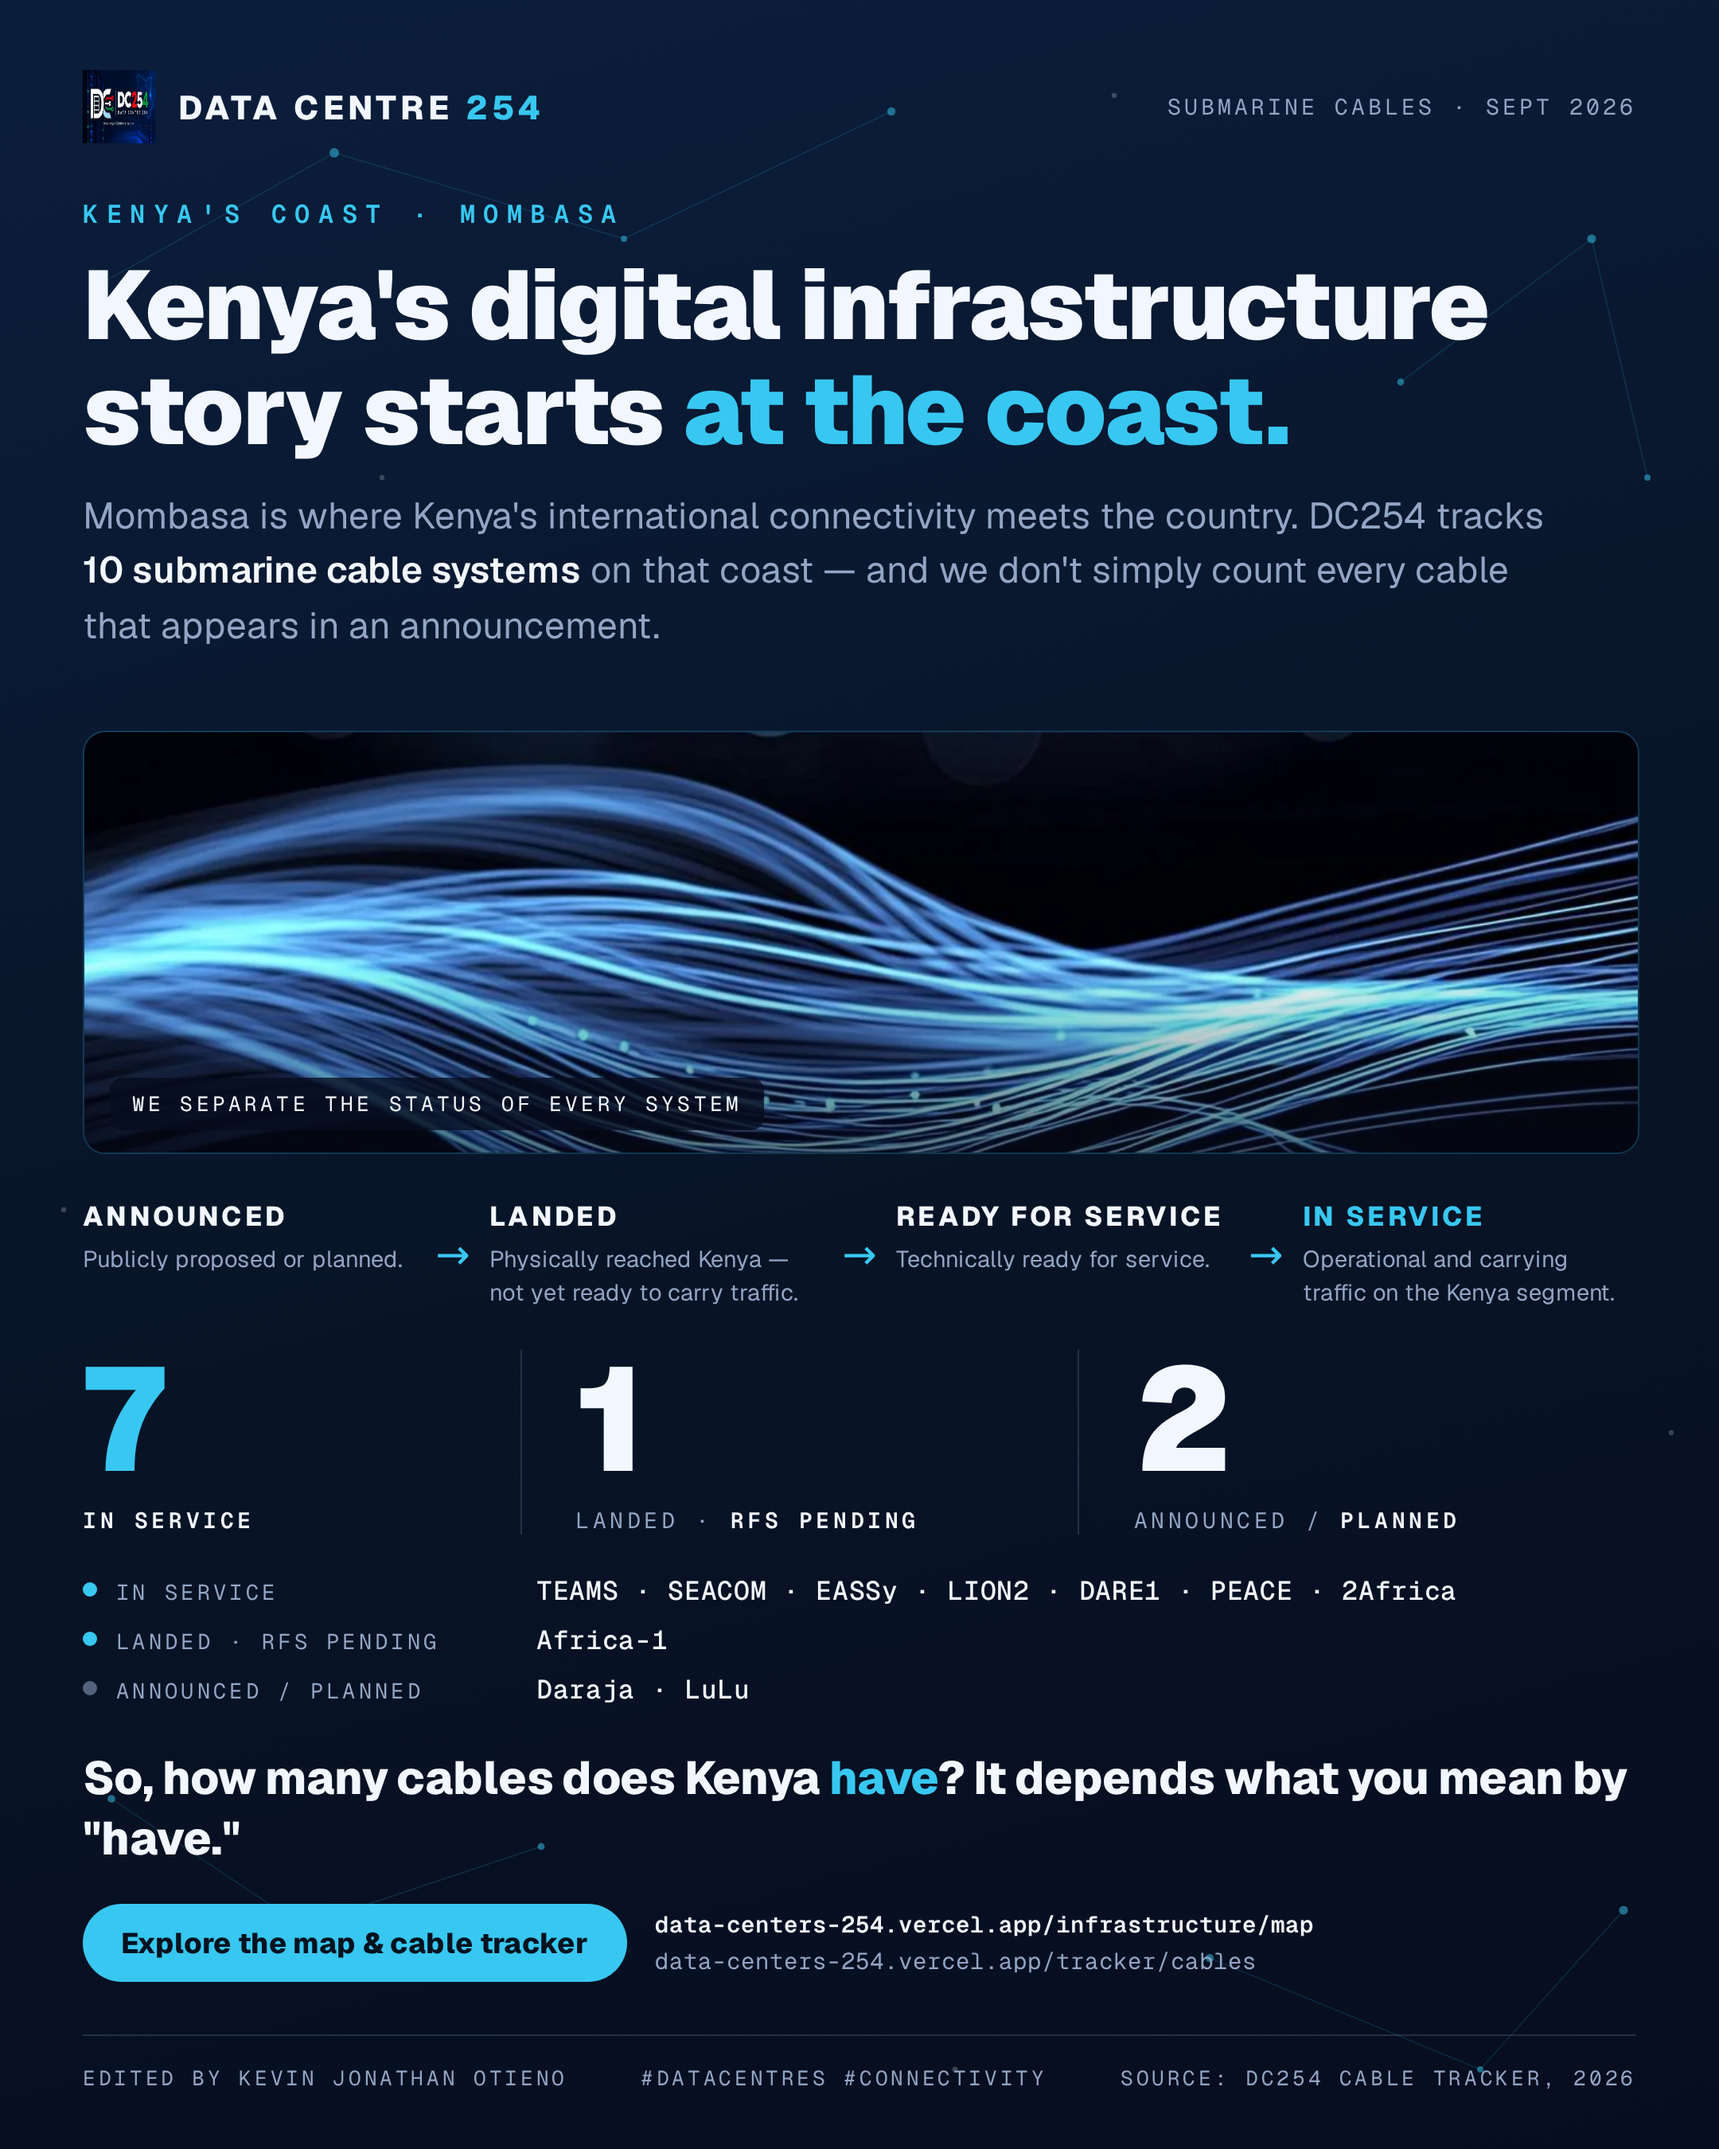
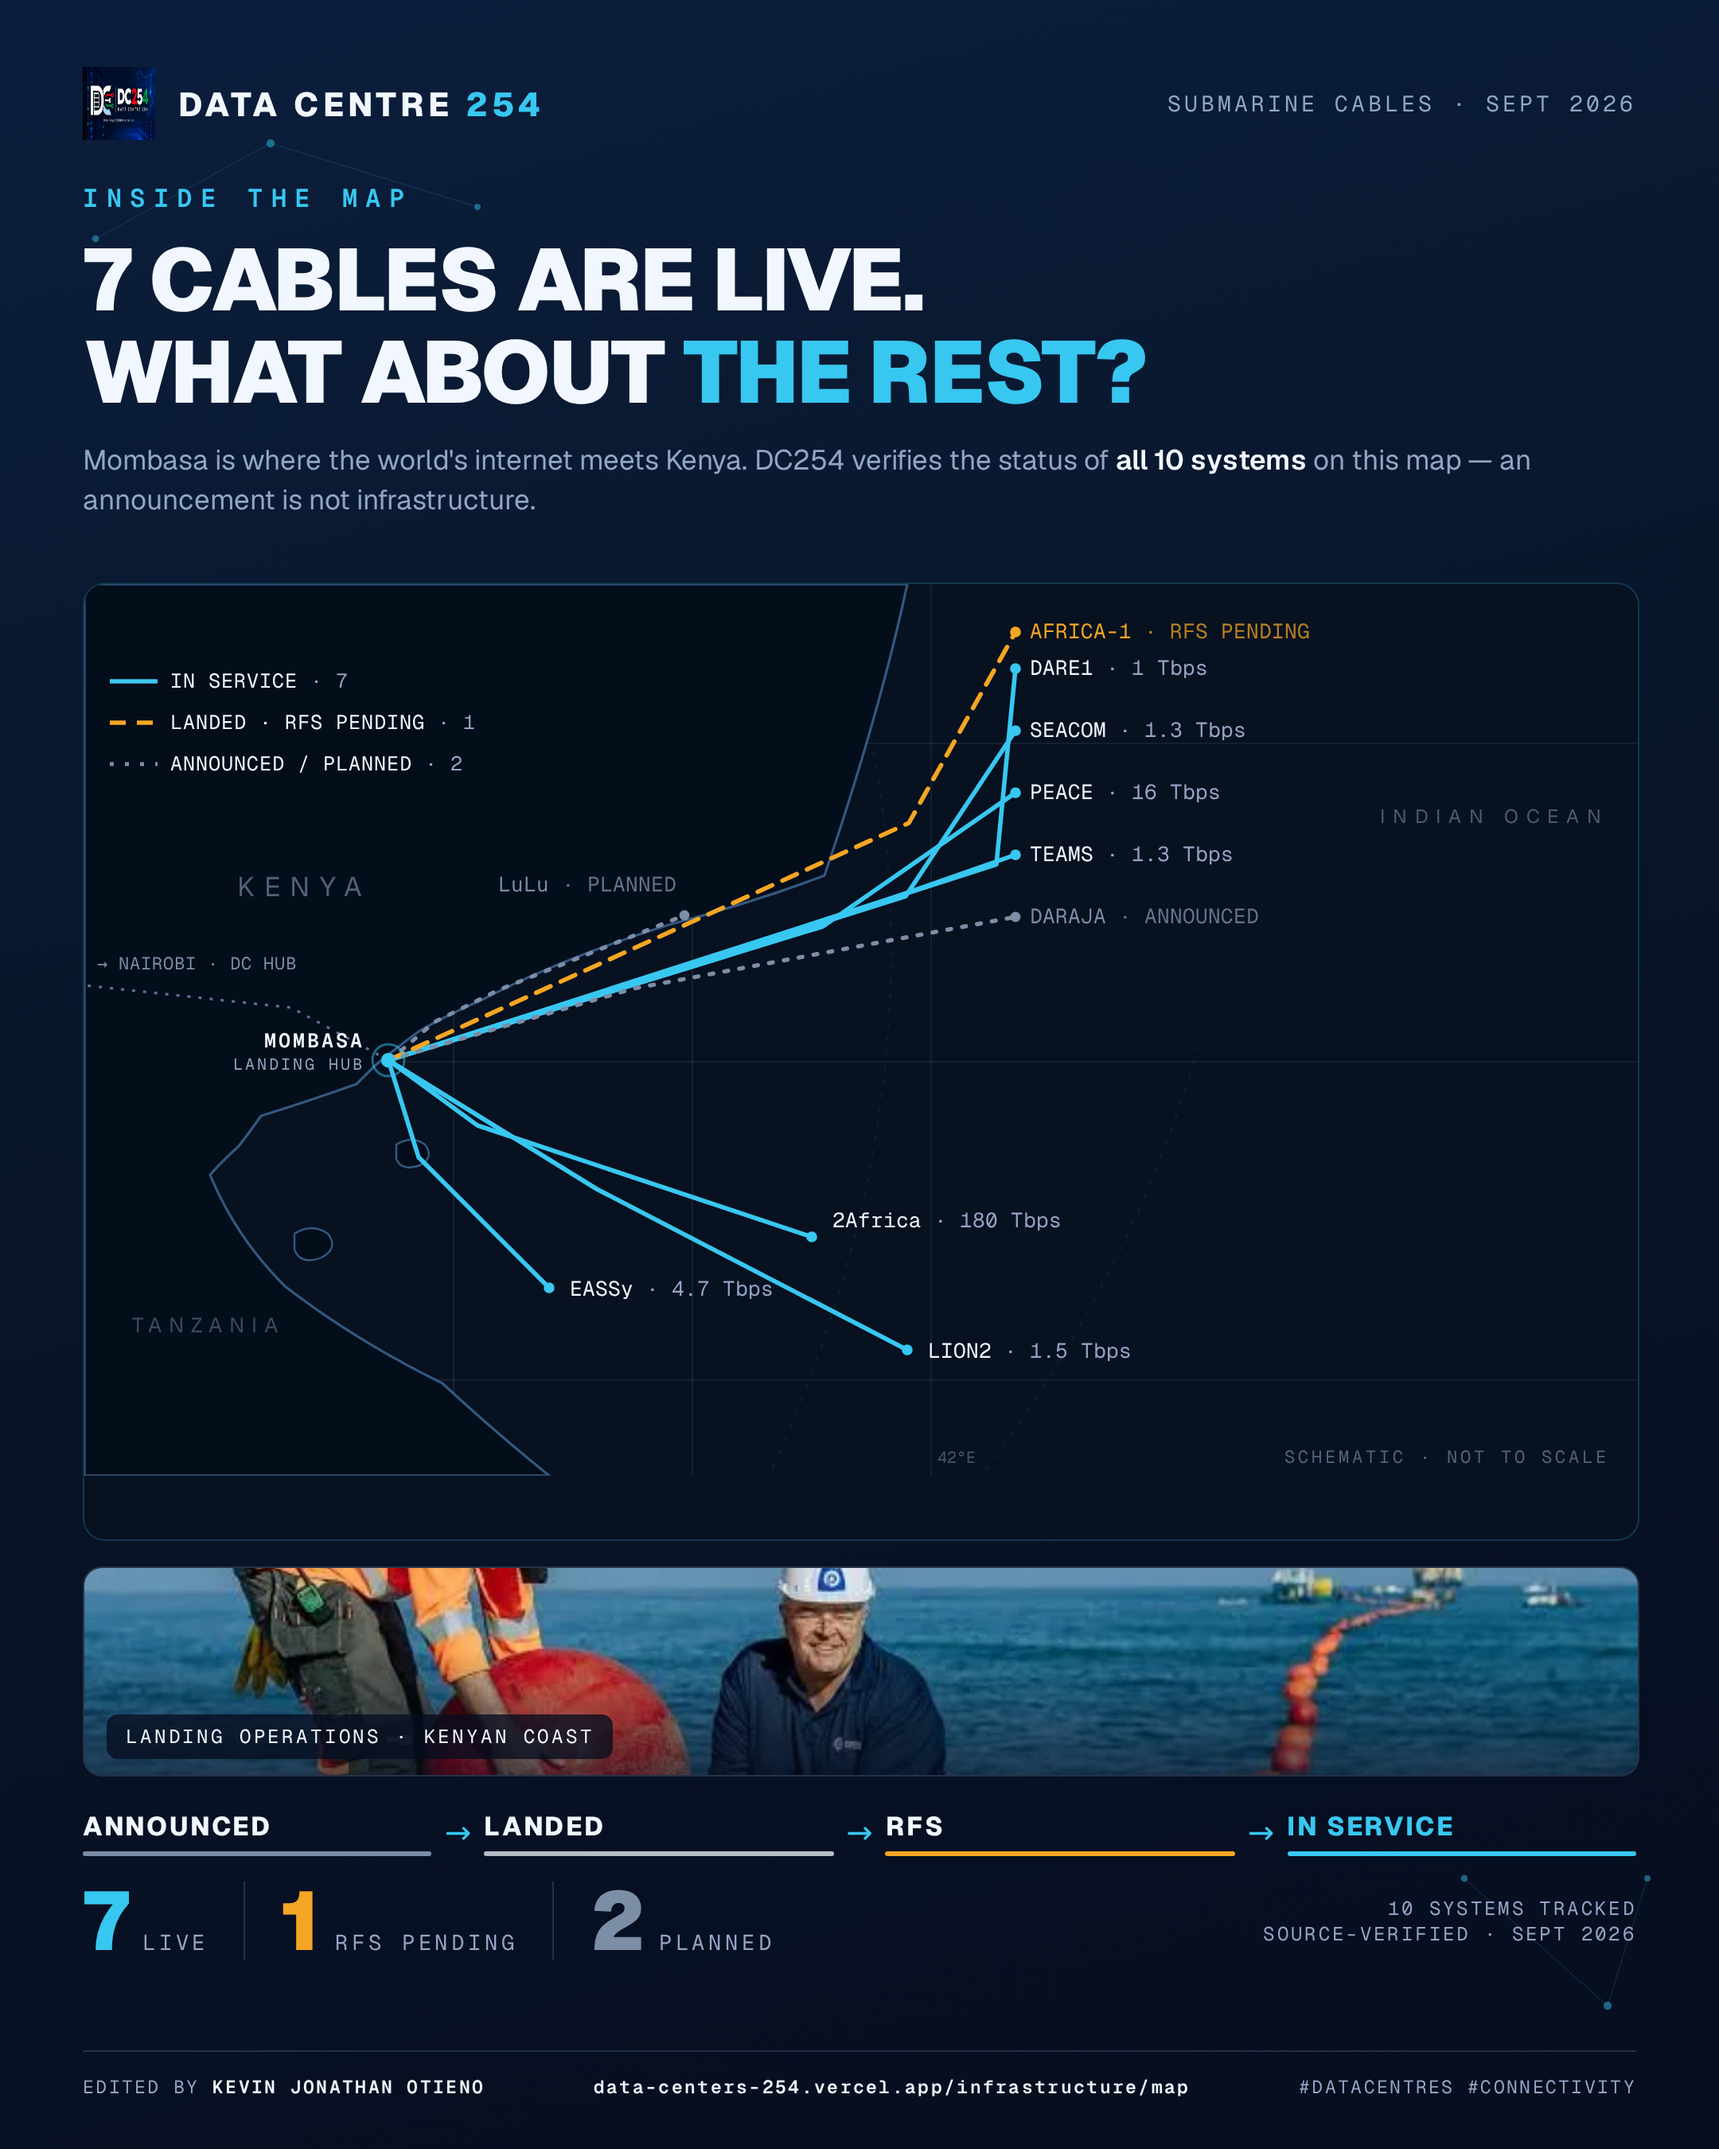
Posters v2: map-driven redesign per editor art direction (same URLs)
Editor: v1's abstract visual wrong for the post; use real site cable
imagery + make the graphic map-driven and self-teaching. New design:
- Headline: INSIDE THE MAP / 7 CABLES ARE LIVE. WHAT ABOUT THE REST?
- SVG schematic map of the Kenyan coast drawn from REAL repo waypoints
  (src/lib/map-data.ts SUBSEA_CABLES + LuLu coastal corridor), routes
  styled by verification status (solid cyan in-service, amber dashed
  landed/RFS pending, grey dotted announced/planned), Mombasa landing
  hub, Nairobi backhaul hint, legend, graticule, not-to-scale note
- Bottom: ANNOUNCED -> LANDED -> RFS -> IN SERVICE pipeline, then
  7 LIVE | 1 RFS PENDING | 2 PLANNED counters
- Real photography: mombasa-cable-landing-4.webp (tracker hero)
Same filenames -> same site URLs; v1 remains in git history.

diff --git a/AGENT_CONTEXT.md b/AGENT_CONTEXT.md
@@ -948,3 +948,31 @@ then commit+push, or apply the 4-line edit manually in the GitHub UI.
   editable HTML stay outside the repo (weight rule) in sandbox download/.
 - Posters under public/images are NOT og:image sources; generate_og_images.mjs
   unaffected (no frontmatter/page refs point here).
+
+### 2026-09-30 — Poster redesign v2: map-driven (editor art direction)
+- Editor feedback on v1: abstract fibre visual wrong for this post; asked for
+  "real cable images we have on the site" and a much more map-driven graphic
+  that teaches before the caption: headline "INSIDE THE MAP / 7 CABLES ARE
+  LIVE. WHAT ABOUT THE REST?", Kenyan coast with cable routes, bottom pipeline
+  ANNOUNCED -> LANDED -> RFS -> IN SERVICE, then 7 LIVE | 1 RFS PENDING |
+  2 PLANNED.
+- Built custom SVG schematic map (viewBox 976x560, both formats) using REAL
+  waypoint geometry from src/lib/map-data.ts SUBSEA_CABLES (9 systems) + LuLu
+  coastal corridor from the tracker (Mombasa -> Vipingo/Kilifi/Malindi -> Lamu).
+  Projection X=(lng-38.45)*150, Y=(2.0-lat)*50. Status encoded in line style:
+  solid cyan in-service / amber dashed landed-RFS / grey dotted announced-
+  planned, legend inside the panel; Mombasa landing-hub marker; dashed
+  terrestrial backhaul hint to Nairobi (DC hub); graticule + bathymetry hints;
+  "SCHEMATIC - NOT TO SCALE" honesty note.
+- Real photography: mombasa-cable-landing-4.webp (tracker hero, cable ship +
+  landing floats) as the photo band; build_posters.mjs token changed
+  {{CABLE}}->{{PHOTO}}. Logo chip unchanged.
+- First-render fixes: Mombasa label clipped at panel edge (two-line lockup);
+  Africa-1/Daraja endpoints had been evenly spaced with labels instead of true
+  Y (lat 1.4N -> y30, 2.17S -> y209) - corrected; LuLu label moved clear of the
+  amber line; land/ocean contrast raised (#040D1A on #071120); 4:5 footer
+  nowrap collision (center span shortened to map URL); 16:9 headline manual
+  3-line break; 4:5 map 560->600 + photo 118->130 for rhythm.
+- Same filenames/URLs kept - replaced in place (v1 preserved in git history).
+  Rendered via scripts/posters pipeline (build_posters.mjs + shoot_posters.cjs,
+  Playwright @2x, chromium cache survived wipe).
